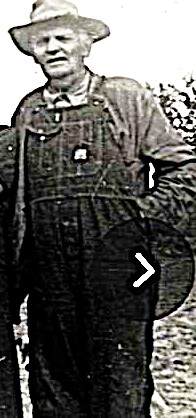
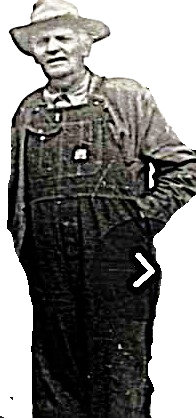
More pics, closer sizing
Added illustrations and made pages more closel fit pagelength

diff --git a/html/LindasGift/LindasGiftPg9.html b/html/LindasGift/LindasGiftPg9.html
@@ -8,70 +8,10 @@
 	<meta name="author" content="Gilbert Bronstad">
 	<meta name="changed" content="20241011">             <!--[{ change date }] -->
     <meta name="viewport" content="width=device-width, initial-scale=1">
-<link rel =stylesheet type="text/css" href="../css/Pat-sLife.css">	
-<link rel =stylesheet type="text/css" href="../css/txtbox.css">
-<link rel =stylesheet type="text/css" href="../css/table.css">
-<link rel =stylesheet type="text/css" href="../css/PatLetr.css">
-<link rel =stylesheet type="text/css" href="../css/Walt-KinPics.css">
-<link rel="stylesheet" href="https://cdnjs.cloudflare.com/ajax/libs/font-awesome/4.7.0/css/font-awesome.min.css">
+ <link rel =stylesheet type="text/css" href="LindasGift.css">
 </head>
 <!-- end head part -->
 <style>
-h1 {
-  font-size: 2.5em;
-  text-align: center;
-}
-
-h2 {
-  font-size: 1.5em;
-}
-
-mark {
-    padding: 0.2em;
-    border-radius: 0.2em;
-    font-weight: bold;
-	outline-style: dotted;
-	outline-width: thin;
-	background-color: hsl(0, 100%,  100%);
-    color:  hsl(0, 0%, 0%);
-}
-.caption {
-  background-color: whitesmoke; 
-  color: Black;           
-  font-family: Helvetica, Arial, sans-serif;
-  font-style: italic;
-  padding: 2px;
-  text-align: center;
-  border: 2px solid black; /*rgb(085,125,125);  */
-  border-radius: 5px;
-  Margin-left: 2em;
-  margin-right: 2em;
-}
-.cursive {
-  font-family:cursive;
-  font-size: 0.8em;
-}
-p {
-  font-size: 1.5em;
-}
-img {
-  display: block;
-  margin-left: auto;
-  margin-right: auto;
-  width: 40%;
-}
-.center {
-  display: flex;
-  justify-content: center;
-  align-items: center;
-  height: 200px;
-  border: 3px solid green;
-  margin:auto;
-}
-#padcenter {
- padding-right: 10%;
-  padding-left: 10%; 
-}
 #gradmorning3 {
   height: 100%;
   background-color: red; /* For browsers that do not support gradients */

diff --git a/html/LindasGift/LindasGiftPg26.html b/html/LindasGift/LindasGiftPg26.html
@@ -38,12 +38,14 @@ document.getElementById("LastModDate").innerHTML = document.lastModified;
 
 <div  id="blue-brass"> 
 <div class="contain2">
-  <div>(wooden box)</div>
-  <div>(birds nest)</div>
+  <div>
+  <img src="WoodenBox.png" alt="Embry and car" style="width:18%" >
+  </div>
+  <div>
+  (birds nest)
+  </div>
 </div>
-<div style="padding-top: 10%;"> 
-&nbsp;
-</div>
+
 <p id="padcenter">She ran quickly into the house. The others questioned each other with silent glances. When she came into the dining room from her room, they gathered around her. In her hands she held her precious box. Quickly she pushed it into Aunt Nell's hands.</p>
 <p id="padcenter">"Look in it!" she said softly.</p>
 <p id="padcenter">"A bird's nest" Aunt Nell said. Then she gasped. For woven in and out of the nest was a string with a few blue beads on it. On one side ot the nest hung one bead more beautiful than the rest It was the much loved center bead.</p>
@@ -54,12 +56,21 @@ document.getElementById("LastModDate").innerHTML = document.lastModified;
 <br>
 </div>
 
-<div style="padding-top: 10%;" id="gradpinkblue">
+<div id="gradpinkblue">
 <div class="contain4">
-  <div>(jarred W. C. Walton)</div>
-  <div>(jarred Ina Wood)</div>
-  <div>(Jarred J. M. Embrey)</div>
-  <div>(Jarred Josephine Cameron)</div>  
+  <div>
+ <img src="CpxJMEmbrey.png" alt="jarred ancestor" style="width:65%;"> 
+  </div>
+
+  <div>
+   <img src="CpxJCEmbry.png" alt="jarred ancestor" style="width:65%;">
+  </div>
+    <div>
+  <img src="CpxWWWalton.png" alt="jarred ancestor" style="width:65%;"> 
+  </div>
+  <div>
+    <img src="CpxWCWalton.png" alt="jarred ancestor" style="width:65%;"> 
+  </div>  
 </div>
 <p class="caption" style="text-align: center; font-size: 1.9em;"> &nbsp;<b><u>Linds's Gift</u></b> &nbsp;&nbsp;&nbsp;&nbsp; &nbsp;&nbsp;&nbsp;&nbsp;
 You can jump to 

diff --git a/html/LindasGift/LindasGiftPg2.html b/html/LindasGift/LindasGiftPg2.html
@@ -29,18 +29,18 @@ document.getElementById("LastModDate").innerHTML = document.lastModified;
 <p id="padcenter">Both Linda and Father were gay this morning. There was much work to be done in the morning, but after lunch someone very wonderful was coming to see them. This made all the family happy, especially Linda.</p>
 </div>
 <div class="contain1">
-
-  <div>(Aunt Nell)</div>
-
+ <div>
+ <img src="AuntNell.png" alt="Aunt Nell Holbrook" style="width:10%" ></div>
 </div>
-<div>
+
 <p id="padcenter">She knew the plans made for her today. Last night Father had told her she must plow for a half day until her brother, George, should return from town. The car must be repaired and George should see that it  wasdone. The repair work would require only half a day. At noon, George would take the plow.</p>
 
 <p id="padcenter">"It was hard work to plow she knew, as she had done it before. But today because of a wonderful secret and because someone special was conming, she did not mind the hard work.</p>
 
 <div class="contain1">
-  <div>(George & Car)</div>
-</div>
+    <div>
+	<img src="EmbreyAndCar2.png" alt="Embry and car" style="width:18%" ></div>
+    </div>
 
 
 <p class="caption" style="text-align: center; font-size: 1.9em;"> &nbsp;<b><u>Linds's Gift</u></b> &nbsp;&nbsp;&nbsp;&nbsp;

diff --git a/html/LindasGift/LindasGiftPg12.html b/html/LindasGift/LindasGiftPg12.html
@@ -23,14 +23,13 @@
   background-image: linear-gradient(to right, hsl(8, 50%, 70%), hsl(210, 50%, 70%)); 
 } 
 </style>
-<!--<body style=" background-color: lightblue;"> -->
+
 <body>
 <p class="cursive"> &emsp;This page was last modified <span id="LastModDate"></span> EST.</p>
 <script>  <!-- Date each page with last page update -->
 document.getElementById("LastModDate").innerHTML = document.lastModified;
 </script>
 
-<!--[[Table Start [[[[[[[[[[[ [[[[[[[[[[[[[[[[[[[[[[[[[[[[[[ [[[[[[[[[[[[[[[[[-->
 <div  id="blue-brass"> 
 <div style="padding-top: 10%;"> 
 &nbsp;
@@ -45,12 +44,12 @@ document.getElementById("LastModDate").innerHTML = document.lastModified;
 </div>
 </div> 
 
-<div style="padding-top: 10%;" id="gradpinkblue">
+<div id="gradpinkblue">
 <br><br><br>
 <p class="caption" style="text-align: center; font-size: 1.9em;"> &nbsp;<b><u>Linds's Gift</u></b> &nbsp;&nbsp;&nbsp;&nbsp; &nbsp;&nbsp;&nbsp;&nbsp;
 You can jump to 
 <a href="LindasGiftfront.html">Front</a>,&nbsp;
-<a href="LindasGiftPg12.html">Page 11</a>&nbsp;<&nbsp;<mark>You are on Page 12</mark>&nbsp;>
+<a href="LindasGiftPg11.html">Page 11</a>&nbsp;<&nbsp;<mark>You are on Page 12</mark>&nbsp;>
 
 <a href="LindasGiftPg13.html">Page 13</a>&nbsp;
 </p>

diff --git a/html/LindasGift/LindasGiftPg0.html b/html/LindasGift/LindasGiftPg0.html
@@ -10,15 +10,14 @@
     <meta name="viewport" content="width=device-width, initial-scale=1">
  <link rel =stylesheet type="text/css" href="LindasGift.css">	
 </head>
-<!-- end head part -->
 <style>
 
 #graddayearth {
-  height: 100%;
+  height: 60%;
   background-color: red; /* For browsers that do not support gradients */
   background-image: linear-gradient(to bottom, hsl(214, 100%, 75%), hsl(140, 100%, 40%));
 </style>
-<!--<body style=" background-color: lightblue;"> -->
+ 
 <body id="graddayearth">
 <p class="cursive"> &emsp;This page was last modified <span id="LastModDate"></span> EST.</p>
 <script>  <!-- Date each page with last page update -->
@@ -28,13 +27,13 @@ document.getElementById("LastModDate").innerHTML = document.lastModified;
 <div>
 
 <figure>
-      <img src="Lindas Gift Pg0.png" alt="Linda finds blue beads." style="width:80%"></a>
+      <img src="Lindas Gift Pg0.png" alt="Linda finds blue beads." style="height:60%"></a>
 	  <figcaption>Linda searches Lark's nest.</figcaption>
 </figure>
 <p></p>
 
 </div>
-<div style="padding-top: 10%;">
+<div>
 &nbsp;
 
 <p class="caption" style="text-align: center; font-size: 1.9em;"> &nbsp;<b><u>Linds's Gift</u></b> &nbsp;&nbsp;&nbsp;&nbsp;

diff --git a/html/LindasGift/LindasGiftPg23.html b/html/LindasGift/LindasGiftPg23.html
@@ -23,16 +23,15 @@
   background-image: linear-gradient(to right, hsl(8, 50%, 70%), hsl(210, 50%, 70%)); 
 } 
 </style>
-<!--<body style=" background-color: lightblue;"> -->
+
 <body>
 <p class="cursive"> &emsp;This page was last modified <span id="LastModDate"></span> EST.</p>
 <script>  <!-- Date each page with last page update -->
 document.getElementById("LastModDate").innerHTML = document.lastModified;
 </script>
 
-<!--[[Table Start [[[[[[[[[[[ [[[[[[[[[[[[[[[[[[[[[[[[[[[[[[ [[[[[[[[[[[[[[[[[-->
 <div  id="blue-brass"> 
-<div style="padding-top: 10%;"> 
+<div style="padding-top: 4%;"> 
 &nbsp;
 </div>
 <p id="padcenter">Small dark clouds covered the sun once in a while. They made a welcome shadow. Soon a larger dark cloud covered the sun. Rain drops came, large and far apart.</p>
@@ -49,7 +48,7 @@ document.getElementById("LastModDate").innerHTML = document.lastModified;
 
 </div>
 
-<div style="padding-top: 10%;" id="gradpinkblue">
+<div style="padding-top: 8%;" id="gradpinkblue">
 <br><br><br>
 <p class="caption" style="text-align: center; font-size: 1.9em;"> &nbsp;<b><u>Linds's Gift</u></b> &nbsp;&nbsp;&nbsp;&nbsp; &nbsp;&nbsp;&nbsp;&nbsp;
 You can jump to 

diff --git a/html/LindasGift/LindasGiftPg25.html b/html/LindasGift/LindasGiftPg25.html
@@ -23,16 +23,15 @@
   background-image: linear-gradient(to right, hsl(8, 50%, 70%), hsl(210, 50%, 70%)); 
 } 
 </style>
-<!--<body style=" background-color: lightblue;"> -->
+
 <body>
 <p class="cursive"> &emsp;This page was last modified <span id="LastModDate"></span> EST.</p>
 <script>  <!-- Date each page with last page update -->
 document.getElementById("LastModDate").innerHTML = document.lastModified;
 </script>
-
-<!--[[Table Start [[[[[[[[[[[ [[[[[[[[[[[[[[[[[[[[[[[[[[[[[[ [[[[[[[[[[[[[[[[[-->
+ 
 <div  id="blue-brass"> 
-<div style="padding-top: 10%;"> 
+<div style="padding-top: 3%;"> 
 &nbsp;
 </div>
 <p id="padcenter">Darkness was coming fast now. A light was turned on in the house. Linda was almost asleep when she heard someone near her.</p>
@@ -48,7 +47,7 @@ document.getElementById("LastModDate").innerHTML = document.lastModified;
 
 </div>
 
-<div style="padding-top: 10%;" id="gradpinkblue">
+<div style="padding-top: 3%;" id="gradpinkblue">
 <br><br><br>
 <p class="caption" style="text-align: center; font-size: 1.9em;"> &nbsp;<b><u>Linds's Gift</u></b> &nbsp;&nbsp;&nbsp;&nbsp; &nbsp;&nbsp;&nbsp;&nbsp;
 You can jump to 

diff --git a/html/LindasGift/LindasGiftPg3.html b/html/LindasGift/LindasGiftPg3.html
@@ -30,15 +30,14 @@ document.getElementById("LastModDate").innerHTML = document.lastModified;
 
 <div id="gradmorning3" style="padding-top: 10%;"> 
 
-
-
 <p id="padcenter">Linda knew how much Father enjoyed Aunt Nell, but she also knew nothing musts stop the work plans for the day. Another crop must be planted on this field before frost. A rain might cause too much delay. The soil must be plowed today.</p>
 <br><br><br>
 </div>
 </div>
-<div style="padding-top: 10%;  background-image: linear-gradient(to right, hsl(0, 20%, 50%), hsl(0, 20%, 20%)" class="contain1">
-<div>(three horse plow)</div>
-
+<div style=" background-image: linear-gradient(to right, hsl(0, 20%, 60%), hsl(0, 20%, 40%)" class="contain1">
+<div>
+<img src="3horseplow.png" alt="3 horse plow" style="width:23%" >
+</div>
 
 <p class="caption" style="text-align: center; font-size: 1.9em;"> &nbsp;<b><u>Linds's Gift</u></b> &nbsp;&nbsp;&nbsp;&nbsp;
 &nbsp;&nbsp;&nbsp;&nbsp;
@@ -48,7 +47,6 @@ You can jump to
 <!--<a href="LindasGiftPg1.html">Page 1&nbsp;-->
 <a href="LindasGiftPg4.html">Page 4</a>&nbsp;
 </p>
-<br>
 </div>
 </body>
 

diff --git a/html/LindasGift/LindasGiftfront.html b/html/LindasGift/LindasGiftfront.html
@@ -24,10 +24,12 @@
 <script>  <!-- Date each page with last page update -->
 document.getElementById("LastModDate").innerHTML = document.lastModified;
 </script>
-<div style="padding-top: 10%;">
-</div>
-&nbsp;
-<div>
+
+<div class="contain3">
+  <div style=" align-self: center; justify-self: center;">
+<img src="Linda.png" alt=" Louise Walton 1915." style="width:50%" >  
+  </div>
+ <div>
 <h1 style="font-family:cursive;"> Linda's Gift</h1>
 <h3 class="center">by</h3>
 <h2 class="center">        Louise Bronstad</h2>
@@ -35,7 +37,12 @@ document.getElementById("LastModDate").innerHTML = document.lastModified;
 <p></p>
 
 </div>
-<div style="padding-top: 10%;">
+  <div style=" align-self: center; justify-self: center;">
+<img src="LindaOlder.png" alt=" Louise (Walton) Holbrook" style="width:50%" >  
+  </div>
+</div>&nbsp;
+
+<div>
 &nbsp;
 
 <p class="caption" style="text-align: center; font-size: 1.9em;"> &nbsp;<b><u>Linds's Gift</u></b> &nbsp;&nbsp;&nbsp;&nbsp;

diff --git a/html/LindasGift/LindasGiftPg15.html b/html/LindasGift/LindasGiftPg15.html
@@ -23,7 +23,7 @@
   background-image: linear-gradient(to right, hsl(8, 50%, 70%), hsl(210, 50%, 70%)); 
 } 
 </style>
-<!--<body style=" background-color: lightblue;"> -->
+
 <body>
 <p class="cursive"> &emsp;This page was last modified <span id="LastModDate"></span> EST.</p>
 <script>  <!-- Date each page with last page update -->
@@ -31,7 +31,7 @@ document.getElementById("LastModDate").innerHTML = document.lastModified;
 </script>
 
 <div  id="blue-brass"> 
-<div style="padding-top: 12%;"> 
+<div style="padding-top: 1%;"> 
 &nbsp;
 </div>
 <div> 
@@ -47,7 +47,7 @@ document.getElementById("LastModDate").innerHTML = document.lastModified;
 </div>
 </div> 
 
-<div style="padding-top: 10%;" id="gradpinkblue">
+<div style="padding-top: 1%;" id="gradpinkblue">
 <br><br><br>
 <p class="caption" style="text-align: center; font-size: 1.9em;"> &nbsp;<b><u>Linds's Gift</u></b> &nbsp;&nbsp;&nbsp;&nbsp; &nbsp;&nbsp;&nbsp;&nbsp;
 You can jump to 

diff --git a/html/LindasGift/LindasGiftPg18.html b/html/LindasGift/LindasGiftPg18.html
@@ -32,7 +32,7 @@ document.getElementById("LastModDate").innerHTML = document.lastModified;
 
 <!--[[Table Start [[[[[[[[[[[ [[[[[[[[[[[[[[[[[[[[[[[[[[[[[[ [[[[[[[[[[[[[[[[[-->
 <div  id="blue-brass"> 
-<div style="padding-top: 10%;"> 
+<div style="padding-top: 1%;"> 
 &nbsp;
 </div>
 <div> 
@@ -48,7 +48,7 @@ document.getElementById("LastModDate").innerHTML = document.lastModified;
 </div>
 </div> 
 
-<div style="padding-top: 10%;" id="gradpinkblue">
+<div style="padding-top: 1%;" id="gradpinkblue">
 <br><br><br>
 <p class="caption" style="text-align: center; font-size: 1.9em;"> &nbsp;<b><u>Linds's Gift</u></b> &nbsp;&nbsp;&nbsp;&nbsp; &nbsp;&nbsp;&nbsp;&nbsp;
 You can jump to 

diff --git a/html/LindasGift/LindasGiftPg13.html b/html/LindasGift/LindasGiftPg13.html
@@ -30,7 +30,6 @@
 document.getElementById("LastModDate").innerHTML = document.lastModified;
 </script>
 
-<!--[[Table Start [[[[[[[[[[[ [[[[[[[[[[[[[[[[[[[[[[[[[[[[[[ [[[[[[[[[[[[[[[[[-->
 <div  id="blue-brass"> 
 <div style="padding-top: 10%;"> 
 &nbsp;
@@ -44,7 +43,7 @@ document.getElementById("LastModDate").innerHTML = document.lastModified;
 </div>
 </div> 
 
-<div style="padding-top: 10%;" id="gradpinkblue">
+<div id="gradpinkblue">
 <br><br><br>
 <p class="caption" style="text-align: center; font-size: 1.9em;"> &nbsp;<b><u>Linds's Gift</u></b> &nbsp;&nbsp;&nbsp;&nbsp; &nbsp;&nbsp;&nbsp;&nbsp;
 You can jump to 
